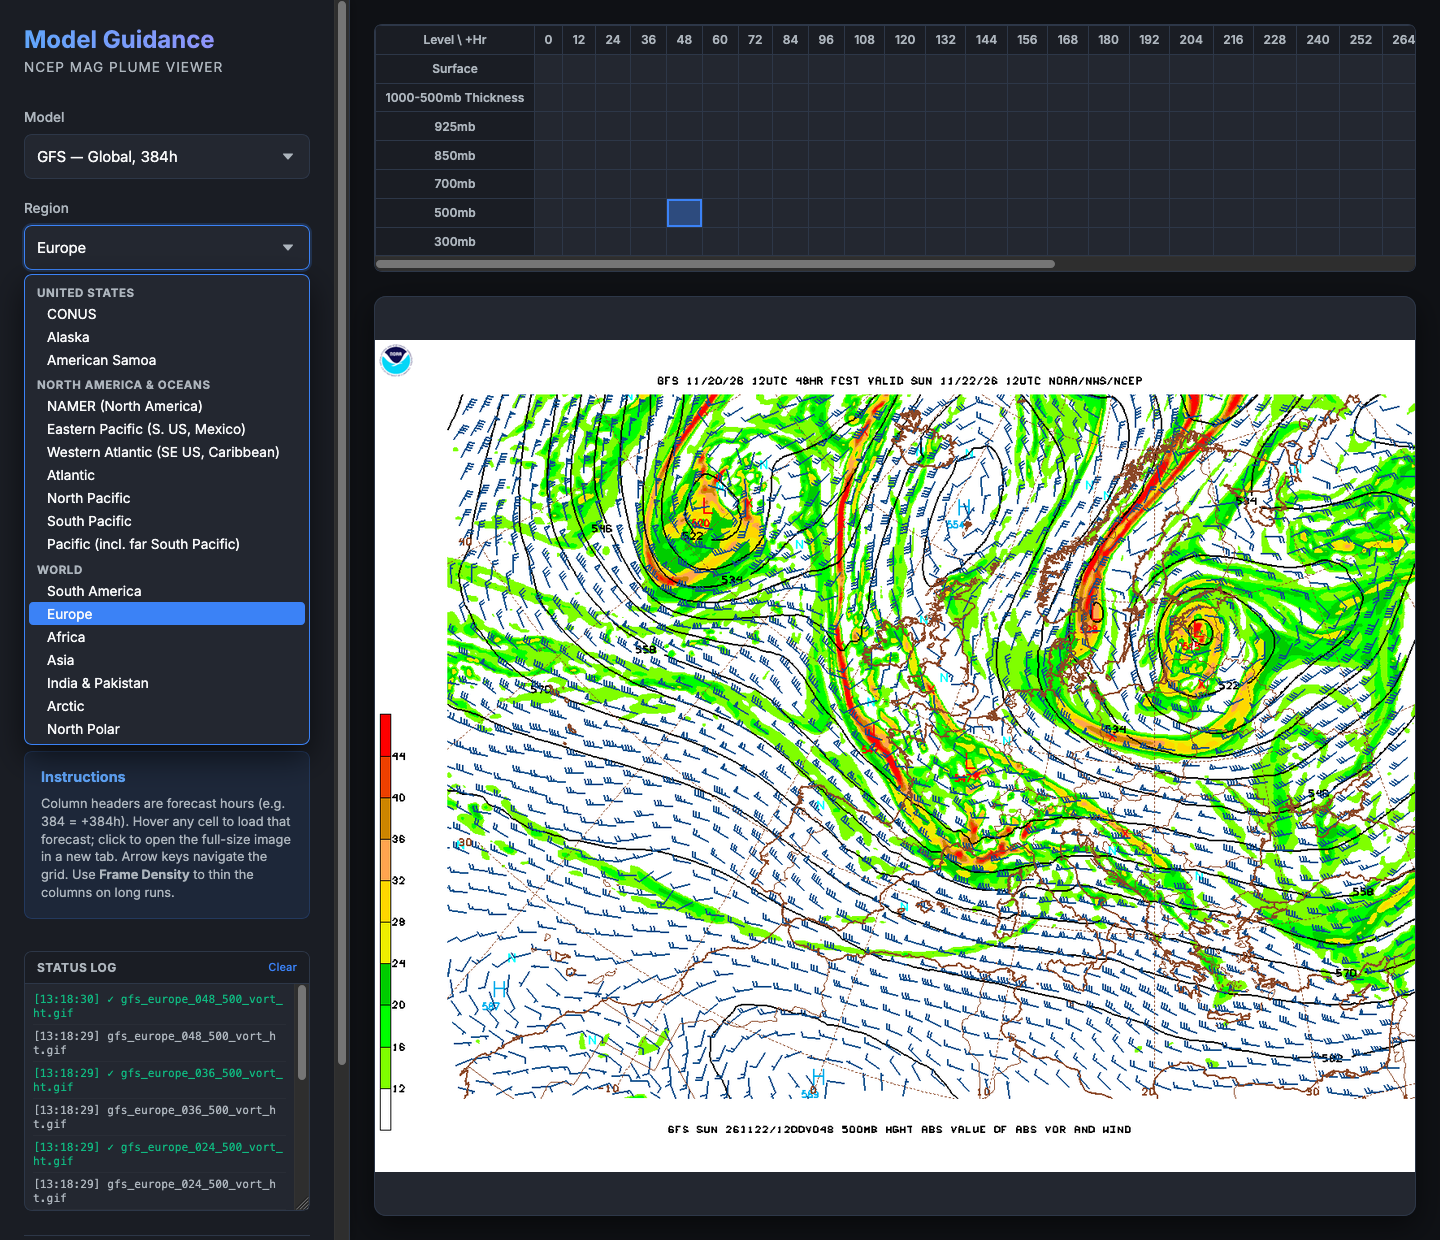
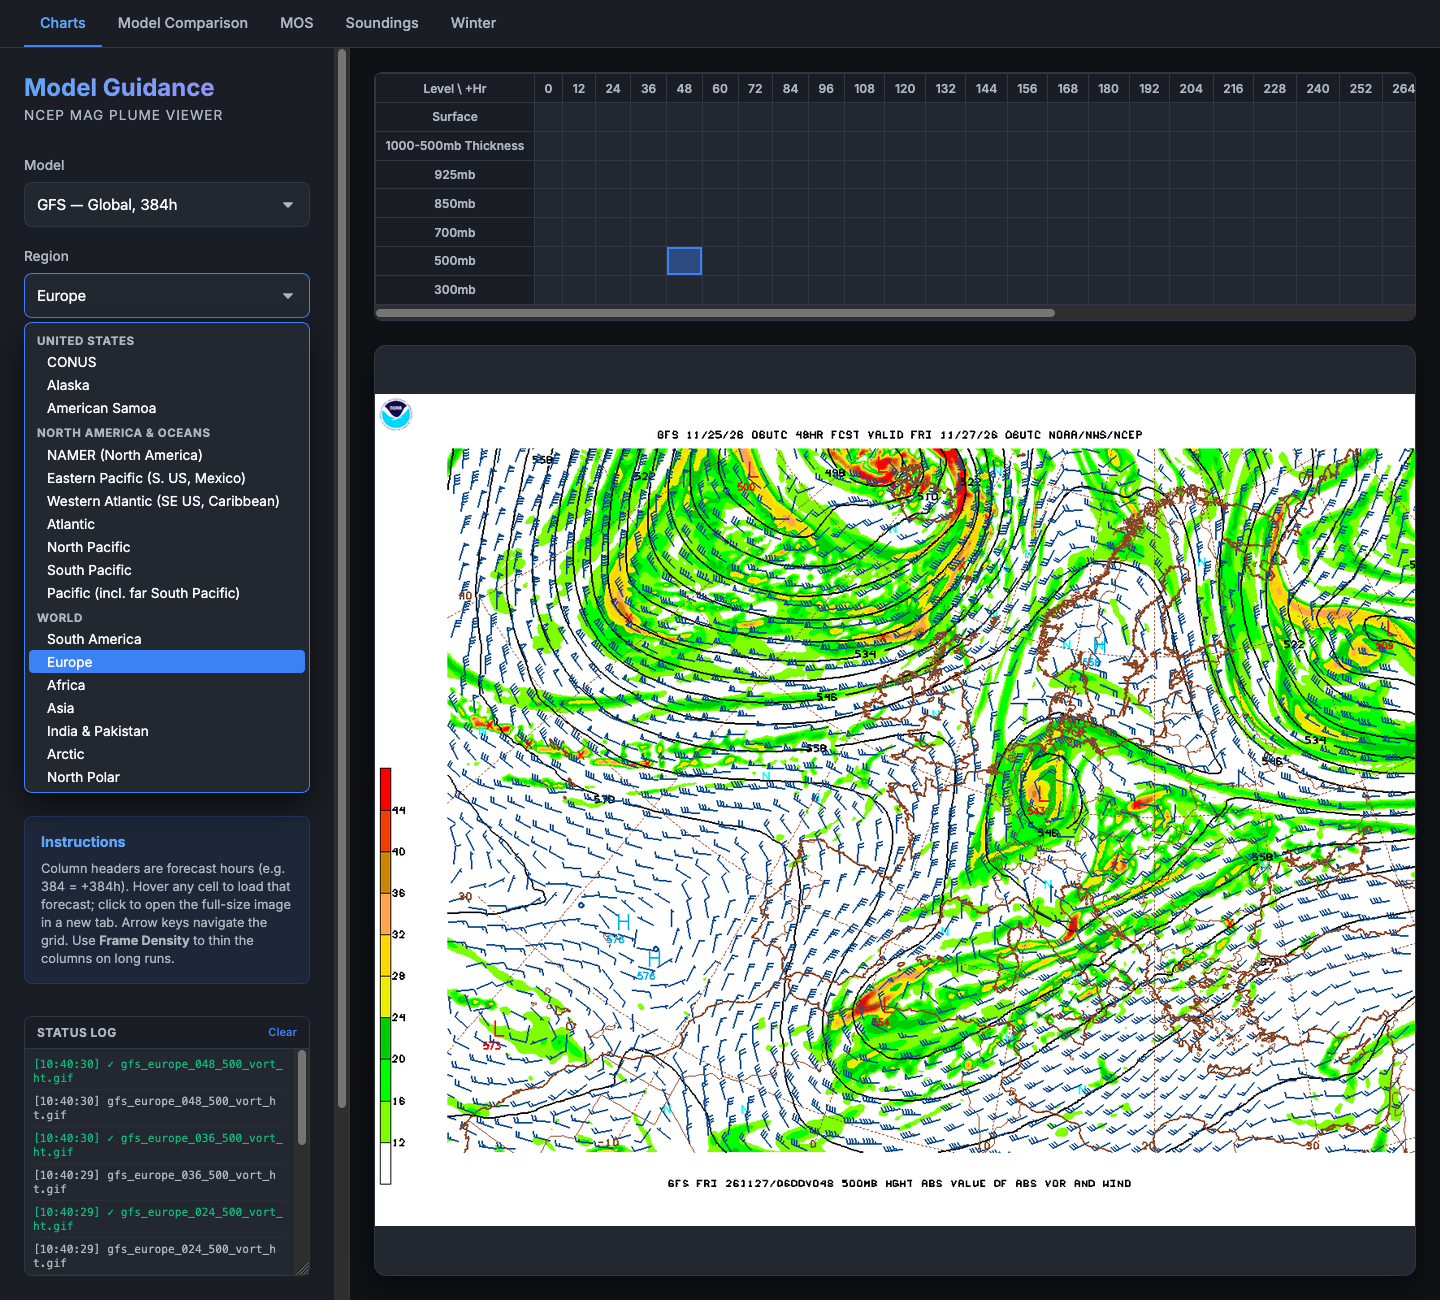
README: screenshots showing the tabs
Retakes the Charts screenshot with the tab bar and adds one of the Model
Comparison tab. As before, the open Region menu is drawn from the real
<select> options, since a native dropdown is not captured.

diff --git a/README.md b/README.md
@@ -2,9 +2,9 @@
 
 An interactive, high-performance web dashboard for visualizing NCEP Model Guidance (MAG) meteorological charts. Designed for meteorologists who need fast, seamless access to forecast imagery across multiple atmospheric levels and forecast hours.
 
-![Model guidance grid with the Region menu open, grouped into United States, North America & oceans, and World; the GFS 500 mb chart for Europe at +48 h; and the Status Log listing each chart loaded](docs/screenshot.png)
+![The Charts tab, first of five tabs along the top (Charts, Model Comparison, MOS, Soundings, Winter): the model guidance grid with the Region menu open, grouped into United States, North America & oceans, and World; the GFS 500 mb chart for Europe at +48 h; and the Status Log listing each chart loaded](docs/screenshot.png)
 
-*Hover over a cell in the grid to show that chart; here, the GFS 500 mb chart for Europe at +48 h. The Region menu (shown open) lists every region MAG plots for the selected model, and the Status Log at the bottom left lists each chart as it loads (drag its corner to make it taller).*
+*Hover over a cell in the grid to show that chart; here, the GFS 500 mb chart for Europe at +48 h. The Region menu (shown open) lists every region MAG plots for the selected model, and the Status Log at the bottom left lists each chart as it loads (drag its corner to make it taller). The tabs along the top open the [point forecasts](#-point-forecasts).*
 
 ## 🚀 Key Features
 
@@ -40,6 +40,10 @@ AIGFS's outer domains (Alaska, Arctic, India, the Pacific domains, American Samo
 ## 📍 Point Forecasts
 
 The tabs along the top go beyond the MAG charts to forecasts for one place. Type a ZIP or `City, ST` once and every tab uses it; it is remembered in your browser (default Jackson, MS). A tab loads its data only when you open it, and the address keeps the tab (for example `#winter`) so you can link to it.
+
+![The Model Comparison tab: 7-day temperature forecasts for Jackson, Mississippi from 11 models, with the run time of each model in the legend](docs/point-forecasts.png)
+
+*The Model Comparison tab, showing the 7-day temperature forecast for Jackson, MS. The Place box beside the tabs sets the location for all four point-forecast tabs.*
 
 | Tab | What it shows | Source |
 |---|---|---|
